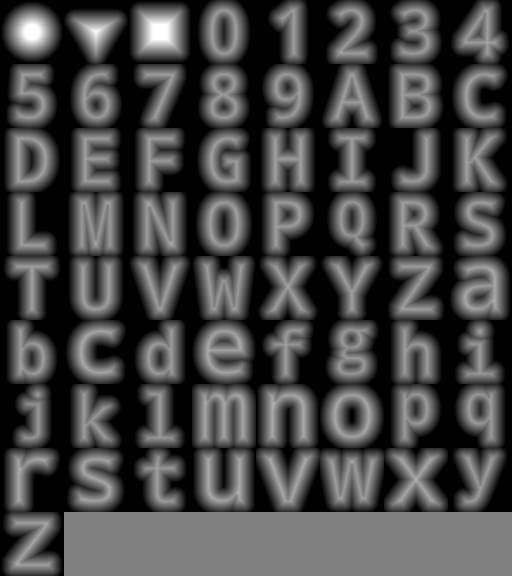
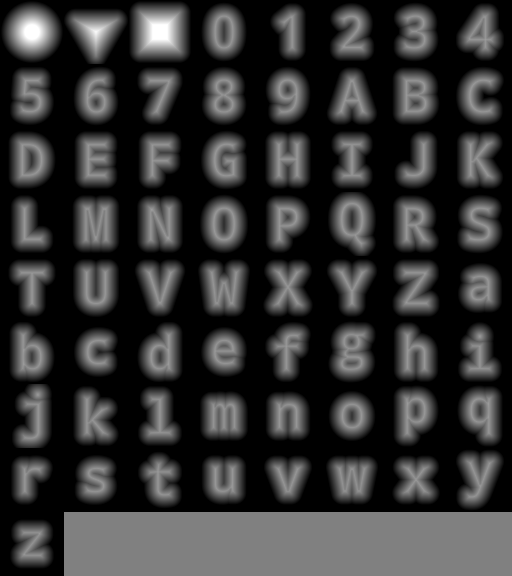
SDF map

diff --git a/src/bin/sdf_atlas_build.rs b/src/bin/sdf_atlas_build.rs
@@ -60,6 +60,36 @@ fn main() -> anyhow::Result<()> {
     for c in 'A'..='Z' { shape_names.push(format!("glyph_{}", c)); }
     for c in 'a'..='z' { shape_names.push(format!("glyph_{}", c)); }
 
+    // Pre-measure glyph global extent (max of per-glyph max(width,height)) so all glyphs share uniform scale.
+    // This preserves typographic relative sizes (x-height vs cap height) instead of stretching each to tile.
+    let glyph_global_extent = {
+        struct BBoxCollector { bbox:(f32,f32,f32,f32), started: bool, last:(f32,f32), first:(f32,f32) }
+        impl BBoxCollector { fn upd(&mut self,x:f32,y:f32){ let b=&mut self.bbox; if x<b.0 {b.0=x;} if y<b.1 {b.1=y;} if x>b.2 {b.2=x;} if y>b.3 {b.3=y;} } }
+        impl ttf::OutlineBuilder for BBoxCollector {
+            fn move_to(&mut self, x:f32,y:f32){ self.started=true; self.last=(x,y); self.first=(x,y); self.upd(x,y); }
+            fn line_to(&mut self, x:f32,y:f32){ self.last=(x,y); self.upd(x,y);} 
+            fn quad_to(&mut self, x1:f32,y1:f32,x:f32,y:f32){ // simple flatten
+                let (sx,sy)=self.last; const S:usize=8; for i in 1..=S { let t=i as f32/S as f32; let it=1.0-t; let px=it*it*sx+2.0*it*t*x1+t*t*x; let py=it*it*sy+2.0*it*t*y1+t*t*y; self.last=(px,py); self.upd(px,py);} }
+            fn curve_to(&mut self, x1:f32,y1:f32,x2:f32,y2:f32,x:f32,y:f32){ let (sx,sy)=self.last; const S:usize=12; for i in 1..=S { let t=i as f32/S as f32; let it=1.0-t; let px=sx*it*it*it + 3.0*x1*it*it*t + 3.0*x2*it*t*t + x*t*t*t; let py=sy*it*it*it + 3.0*y1*it*it*t + 3.0*y2*it*t*t + y*t*t*t; self.last=(px,py); self.upd(px,py);} }
+            fn close(&mut self){ /* bbox only */ }
+        }
+        let mut max_extent = 0.0f32;
+        for ch in ('0'..='9').chain('A'..='Z').chain('a'..='z') {
+            let gid = font.glyph_id(ch);
+            let gid16 = ttf::GlyphId(gid.0);
+            let mut col = BBoxCollector { bbox:(f32::MAX,f32::MAX,-f32::MAX,-f32::MAX), started:false, last:(0.0,0.0), first:(0.0,0.0) };
+            parsed.outline_glyph(gid16, &mut col);
+            if !col.started { continue; } // skip missing outlines
+            let (min_x,min_y,max_x,max_y) = col.bbox;
+            if min_x >= max_x || min_y >= max_y { continue; }
+            let bw = max_x - min_x; let bh = max_y - min_y; let m = bw.max(bh);
+            if m > max_extent { max_extent = m; }
+        }
+        if max_extent <= 0.0 { // fallback: use units_per_em (ttf units per em is non-zero per spec)
+            parsed.units_per_em() as f32
+        } else { max_extent }
+    };
+
     let tile = args.tile_size as i32;
     if args.padding_px * 2 >= args.tile_size {
         anyhow::bail!("padding_px*2 >= tile_size ({} * 2 >= {})", args.padding_px, args.tile_size);
@@ -94,7 +124,7 @@ fn main() -> anyhow::Result<()> {
                     let cx = fx_content * 2.0 - 1.0;
                     let cy = fy_content * 2.0 - 1.0;
                     // Raw normalized signed distance (negative inside, positive outside after normalization step below)
-                    let sd_norm = signed_distance(name, cx, cy, &font, &parsed); // negative inside
+                    let sd_norm = signed_distance(name, cx, cy, &font, &parsed, glyph_global_extent); // negative inside
                     let sd_px = sd_norm * (args.tile_size as f32 * 0.5);
                     let sd_clamped = sd_px.clamp(-distance_range_px, distance_range_px);
                     // Inverted encoding: inside (sd < 0) becomes brighter than 0.5 ( > 128 ),
@@ -128,7 +158,7 @@ fn main() -> anyhow::Result<()> {
     Ok(())
 }
 
-fn signed_distance(name:&str, x: f32, y: f32, font: &ab_glyph::FontRef<'_>, parsed:&ttf::Face<'_>) -> f32 {
+fn signed_distance(name:&str, x: f32, y: f32, font: &ab_glyph::FontRef<'_>, parsed:&ttf::Face<'_>, glyph_global_extent:f32) -> f32 {
     // Canonical SDFs return negative inside, positive outside.
     match name {
         // Circle of radius r (shape space) : sd = length(p) - r (positive outside). We invert sign to keep negative inside.
@@ -136,7 +166,7 @@ fn signed_distance(name:&str, x: f32, y: f32, font: &ab_glyph::FontRef<'_>, pars
         // Square (box) half-size s: standard box SDF (positive outside)
         "square" => { let s = 0.8; let dx = (x.abs() - s).max(0.0); let dy = (y.abs() - s).max(0.0); let outside = (dx*dx + dy*dy).sqrt(); let inside = (x.abs().max(y.abs()) - s).min(0.0); outside + inside },
         "triangle" => sdf_equilateral_triangle(x,y),
-    _ if name.starts_with("glyph_") => sdf_glyph_outline(name, x, y, font, parsed).unwrap_or_else(|| sdf_glyph_placeholder(name, x, y)),
+    _ if name.starts_with("glyph_") => sdf_glyph_outline(name, x, y, font, parsed, glyph_global_extent).unwrap_or_else(|| sdf_glyph_placeholder(name, x, y)),
         _ => 1.0, // far outside by default
     }
 }
@@ -249,7 +279,7 @@ fn sdf_ring_open(x:f32,y:f32,ro:f32,ri:f32,gap:f32,left:bool)->f32{ let base = s
 // 1. Extract glyph outline via ttf-parser (lines, quads, cubics -> flattened to line segments).
 // 2. Compute signed distance using even-odd winding (parity) for inside test + min distance to segments.
 // 3. Normalize by half of max dimension so outer bounds ~= distance 1.
-fn sdf_glyph_outline(name:&str, x:f32, y:f32, font:&ab_glyph::FontRef<'_>, parsed:&ttf::Face<'_>) -> Option<f32> {
+fn sdf_glyph_outline(name:&str, x:f32, y:f32, font:&ab_glyph::FontRef<'_>, parsed:&ttf::Face<'_>, glyph_global_extent:f32) -> Option<f32> {
     let ch = name.strip_prefix("glyph_")?.chars().next()?;
     let gid = font.glyph_id(ch);
     let gid16 = ttf::GlyphId(gid.0);
@@ -297,9 +327,9 @@ fn sdf_glyph_outline(name:&str, x:f32, y:f32, font:&ab_glyph::FontRef<'_>, parse
     let mut col = Collector { segs: Vec::new(), last:(0.0,0.0), contour_start:(0.0,0.0), bbox:(f32::MAX,f32::MAX,-f32::MAX,-f32::MAX), started:false };
     parsed.outline_glyph(gid16, &mut col);
     if col.segs.is_empty() { return None; }
-    let (min_x,min_y,max_x,max_y)=col.bbox; let bw=(max_x-min_x).max(1.0); let bh=(max_y-min_y).max(1.0);
-    // Uniform scale (avoid warping): choose max dimension; center glyph in remaining axis.
-    let scale = bw.max(bh);
+    let (min_x,min_y,max_x,max_y)=col.bbox; // width/height unneeded after global scale chosen
+    // Global uniform scale (avoid per-glyph fitting); use precomputed maximum extent across glyph set.
+    let scale = glyph_global_extent;
     let cx_g = (min_x + max_x) * 0.5;
     let cy_g = (min_y + max_y) * 0.5;
     // Map shape space [-1,1] uniformly into glyph space about center. Invert Y to correct orientation.
